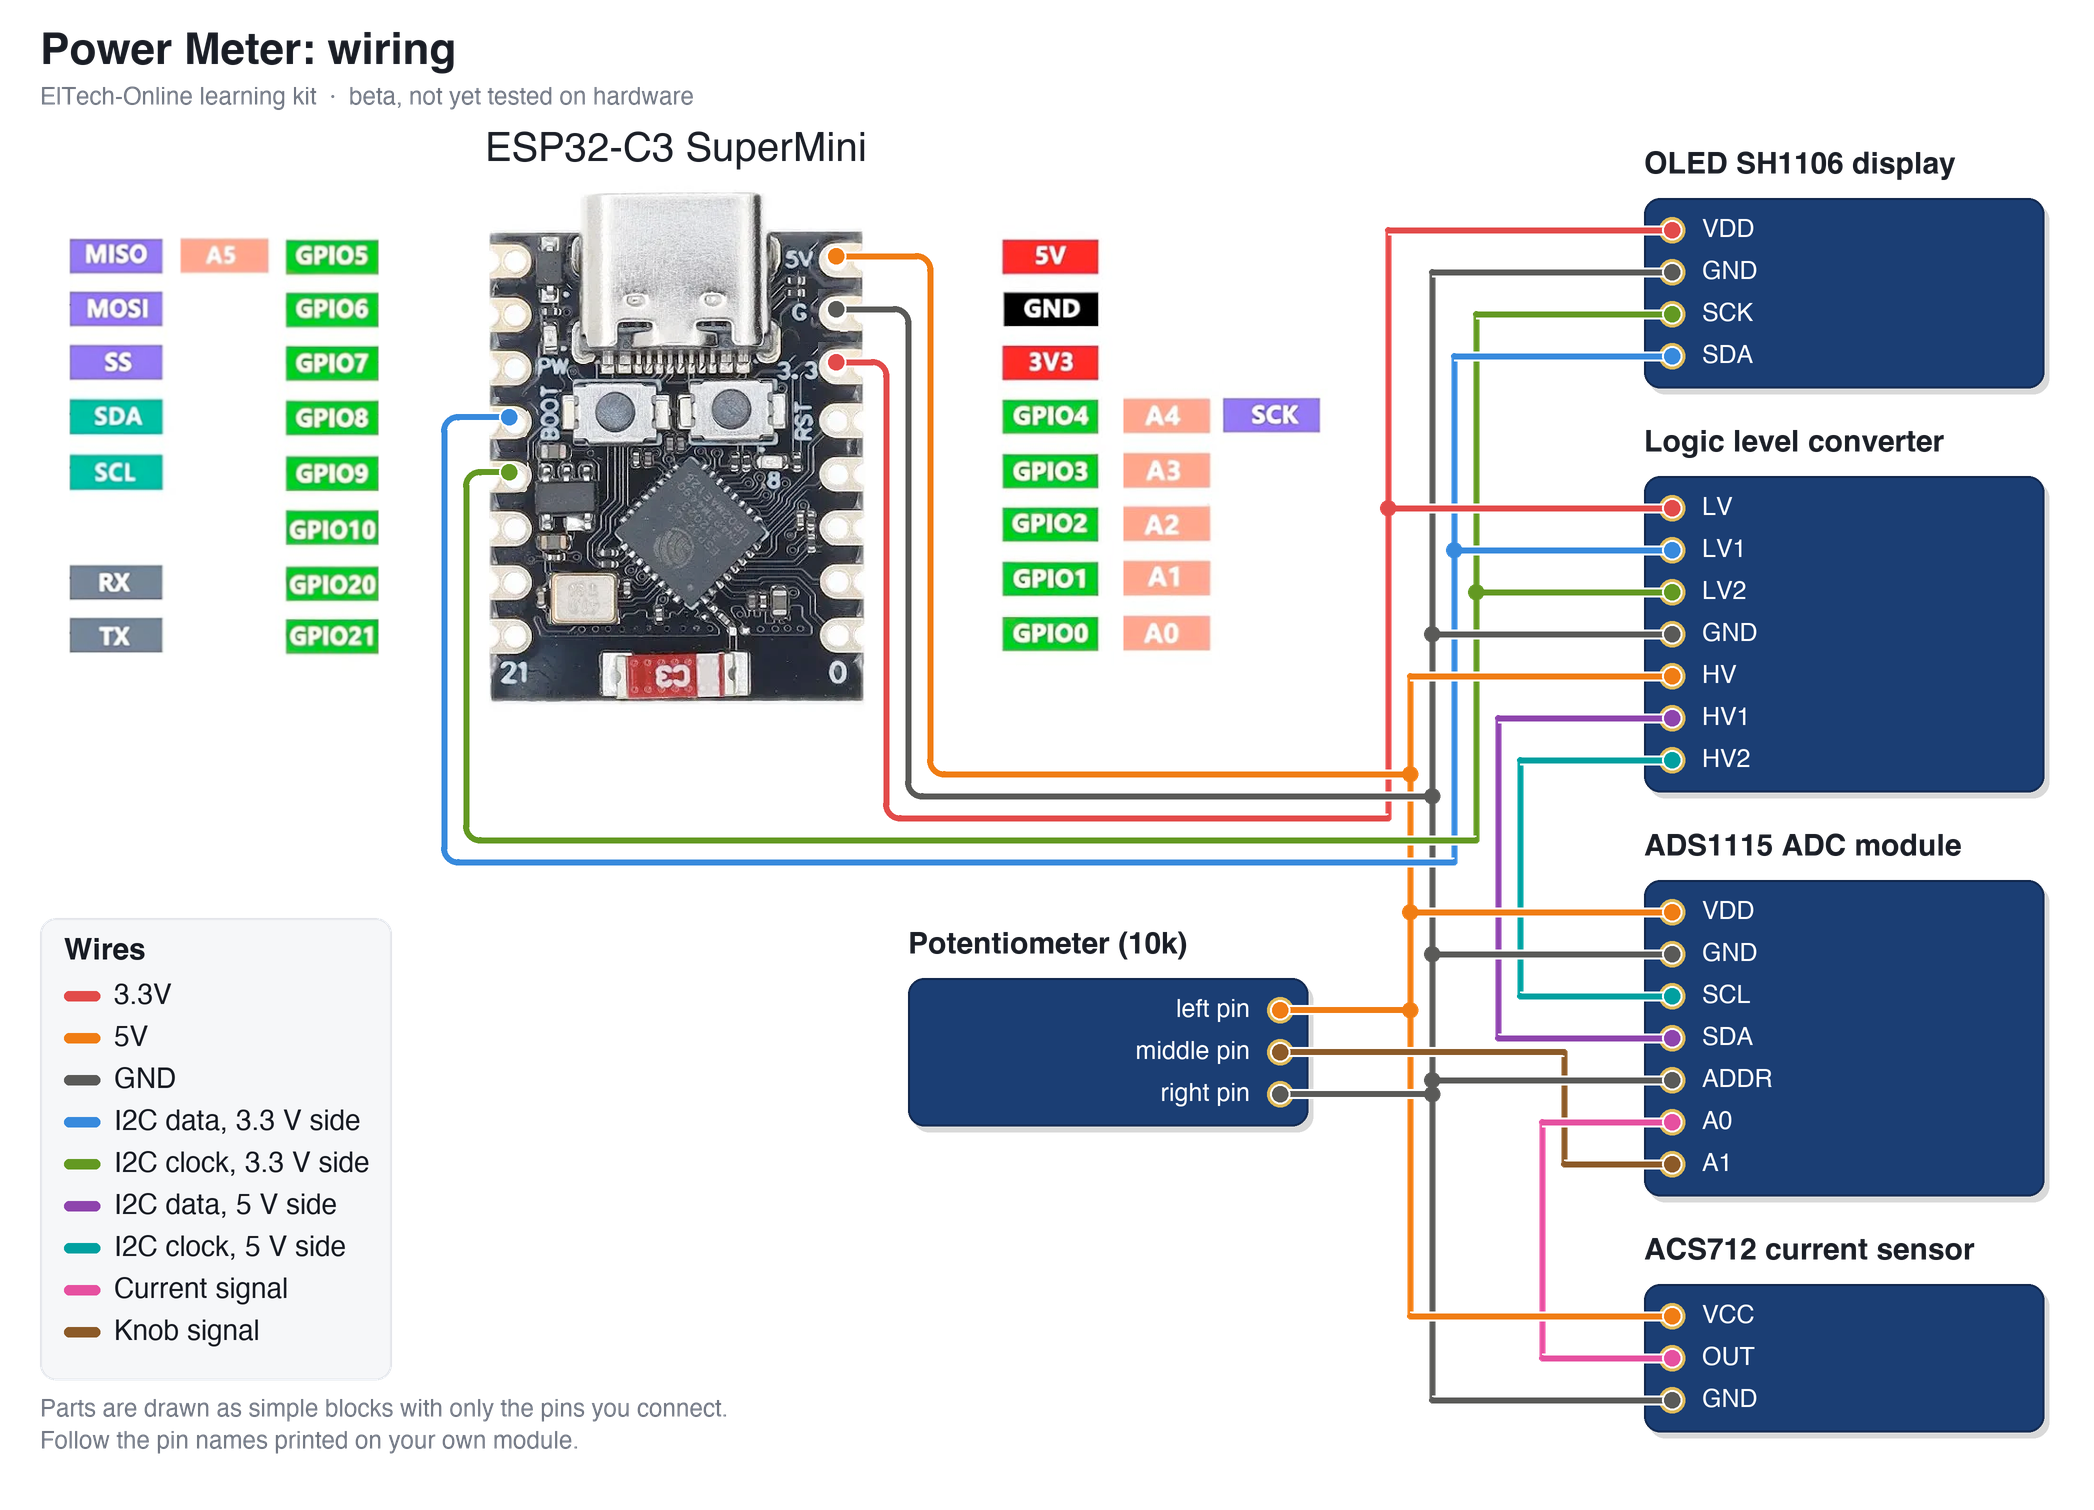
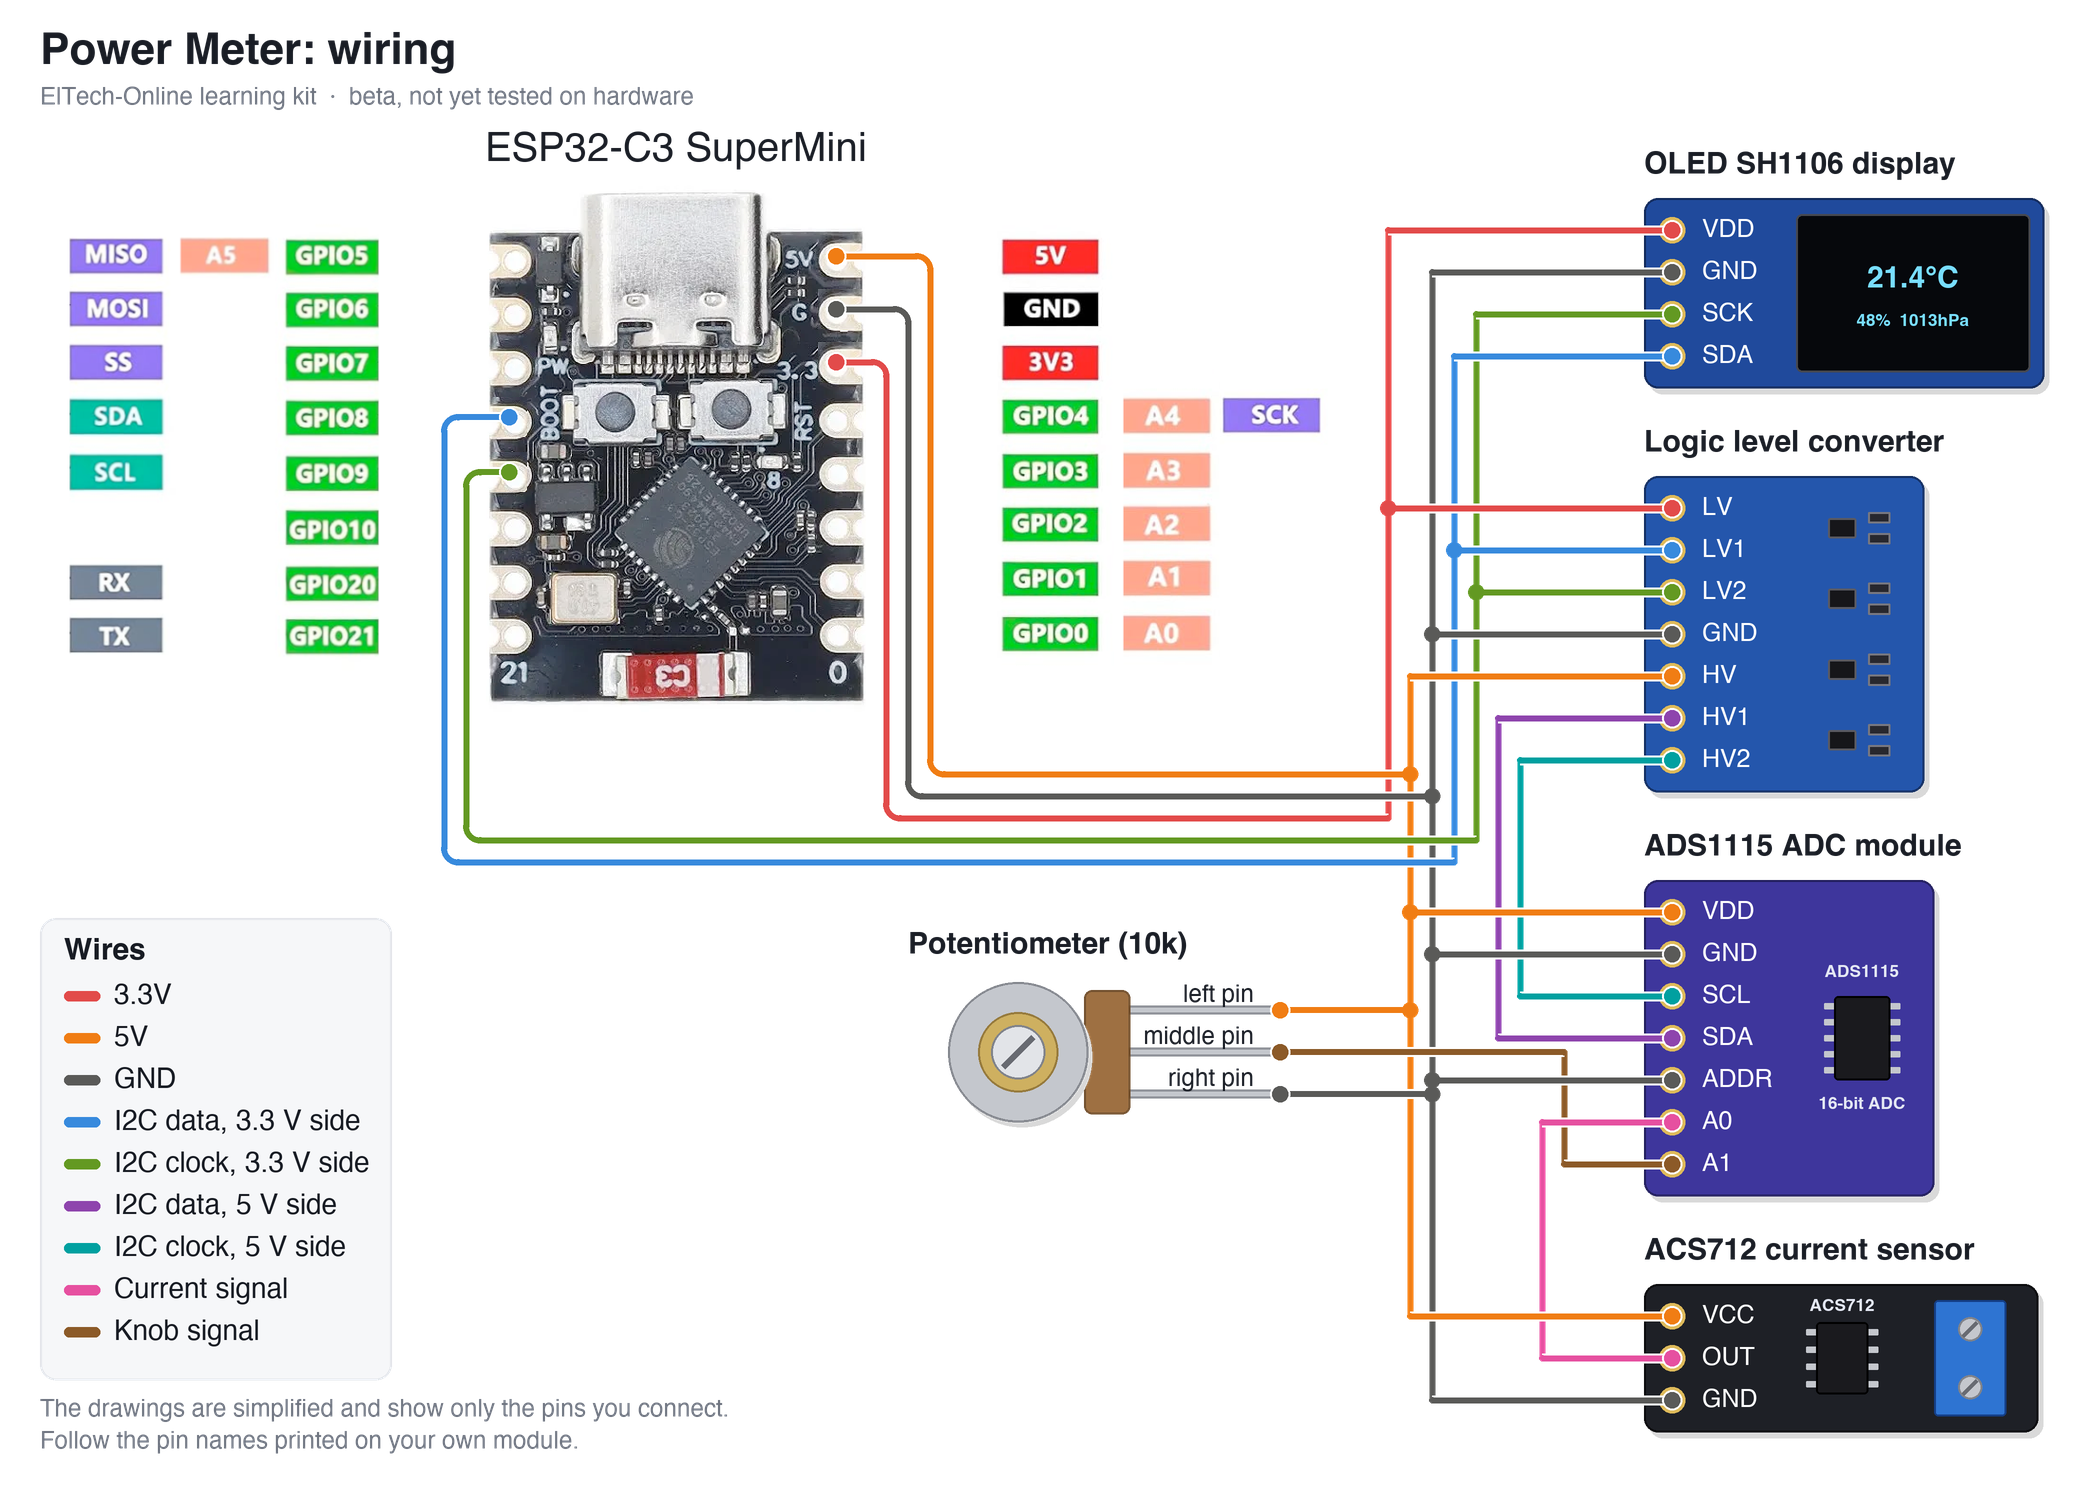
Wiring diagram: draw the parts as pictures instead of plain blocks

diff --git a/README.md b/README.md
@@ -96,7 +96,7 @@ There are **two sketches** in this repo:
 
 ![Wiring diagram: Power Meter](wiring_diagram.png)
 
-The parts are drawn as simple blocks showing only the pins you connect. **Always follow the labels printed on your own modules** — the pin order differs between manufacturers.
+The parts are drawn in a simplified way, showing only the pins you connect. **Always follow the labels printed on your own modules** — the pin order differs between manufacturers.
 
 Good to know:
 
